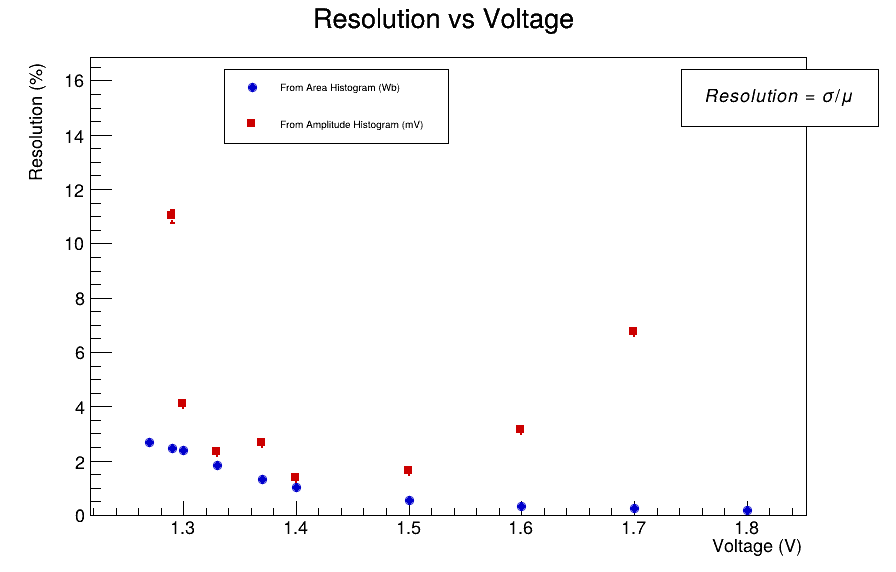
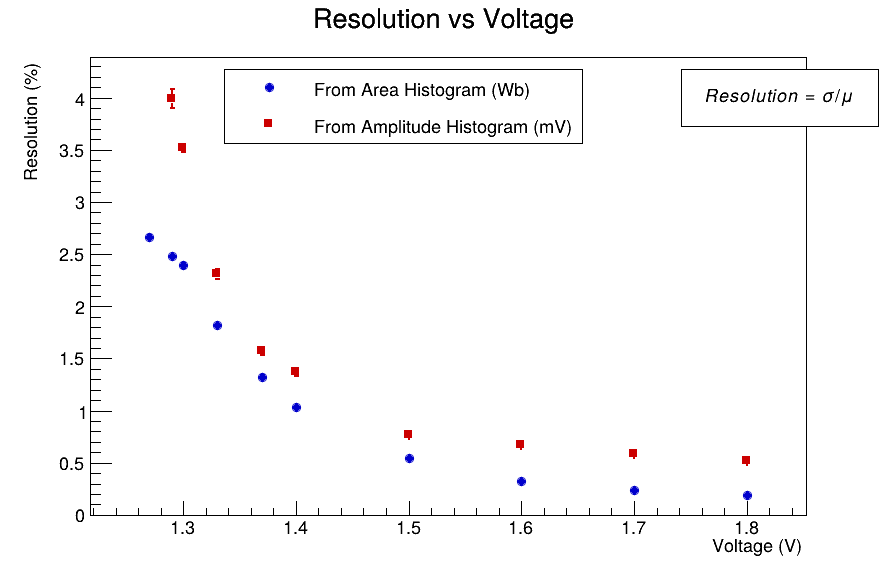
✨Add the option of having a crystall ball fit in comparison

diff --git a/Test_LED_Analysis/plot_resolution_vs_voltage.py b/Test_LED_Analysis/plot_resolution_vs_voltage.py
@@ -75,13 +75,25 @@ def parse_voltage(csv_file):
 # --------------------------------------------------
 # Scan files and compute resolution
 # --------------------------------------------------
-def compute_resolution_points(data_dir, file_prefix, x_unit_label):
+def compute_resolution_points(
+    data_dir,
+    file_prefix,
+    x_unit_label,
+    use_peak_window=False,
+    window_factors=(0.8, 1.2),
+):
     """
-    Reads histograms in data_dir matching f"{file_prefix}_*.csv",
+    Reads histograms in data_dir matching f"{file_prefix}*.csv",
     computes resolution = RMS/Mean (in %), and returns sorted arrays:
     voltages, resolutions_pct, v_errors, res_errors_pct
+
+    If use_peak_window=True:
+      - Find peak bin center (peak_x)
+      - Define window [window_factors[0]*peak_x, window_factors[1]*peak_x]
+      - Compute mean/rms using only bins in that window (weighted by counts)
+      - Estimate errors using simple counting-stat approximations
     """
-    
+
     csv_files = sorted([f for f in os.listdir(data_dir) if f.startswith(file_prefix) and f.endswith(".csv")])
     if not csv_files:
         raise RuntimeError(f"No {file_prefix}*.csv files found in {data_dir}")
@@ -112,34 +124,91 @@ def compute_resolution_points(data_dir, file_prefix, x_unit_label):
             print(f"⚠ Skipping (hist build failed): {csv_file}")
             continue
 
-        mean = h.GetMean()
-        rms  = h.GetRMS()
+        # -----------------------------
+        # Compute mean/rms (full or windowed)
+        # -----------------------------
+        if not use_peak_window:
+            mean = h.GetMean()
+            rms  = h.GetRMS()
 
-        mean_err = h.GetMeanError()
-        rms_err  = h.GetRMSError()
+            mean_err = h.GetMeanError()
+            rms_err  = h.GetRMSError()
+
+            window_info = "full"
+        else:
+            # Peak-based window
+            peak_bin = h.GetMaximumBin()
+            peak_x   = h.GetBinCenter(peak_bin)
+
+            low_edge  = window_factors[0] * peak_x
+            high_edge = window_factors[1] * peak_x
+
+            bin_low  = h.FindBin(low_edge)
+            bin_high = h.FindBin(high_edge)
+
+            # Weighted moments in window
+            sumw = 0.0
+            sumwx = 0.0
+            sumwx2 = 0.0
+
+            for b in range(bin_low, bin_high + 1):
+                w = h.GetBinContent(b)
+                xv = h.GetBinCenter(b)
+                sumw += w
+                sumwx += w * xv
+                sumwx2 += w * xv * xv
+
+            if sumw <= 0:
+                print(f"⚠ Skipping (empty window): {csv_file}")
+                del h
+                continue
+
+            mean = sumwx / sumw
+            var = (sumwx2 / sumw) - mean * mean
+            rms = math.sqrt(var) if var > 0 else 0.0
+
+            # --- Simple error estimates (counting-stat approximations) ---
+            # Treat sumw as N (counts). Then:
+            #   mean_err ~ rms / sqrt(N)
+            #   rms_err  ~ rms / sqrt(2N)
+            # (These are approximations; good enough for comparing trends.)
+            N = sumw
+            mean_err = (rms / math.sqrt(N)) if N > 0 else 0.0
+            rms_err  = (rms / math.sqrt(2.0 * N)) if N > 0 else 0.0
+
+            window_info = f"window [{low_edge:.3g}, {high_edge:.3g}]"
 
         if mean == 0 or math.isnan(mean) or math.isnan(rms):
             print(f"⚠ Skipping (bad mean/rms): {csv_file}  mean={mean} rms={rms}")
+            del h
             continue
 
         res = rms / mean
 
         # Error propagation for res = rms/mean
-        # res_err/res = sqrt( (rms_err/rms)^2 + (mean_err/mean)^2 )
-        if rms > 0:
-            rel = math.sqrt((rms_err / rms) ** 2 + (mean_err / mean) ** 2) if mean != 0 else 0.0
+        if rms > 0 and mean != 0:
+            rel = math.sqrt((rms_err / rms) ** 2 + (mean_err / mean) ** 2)
             res_err = abs(res) * rel
         else:
             res_err = 0.0
 
         voltages.append(v_val)
         resolutions.append(res * 100.0)      # in %
-        v_errors.append(0.0)                 # no voltage uncertainty provided
+        v_errors.append(0.0)                 # no voltage uncertainty
         res_errors.append(res_err * 100.0)   # in %
 
-        print(f"{csv_file:26s} -> V={v_val:.2f}  mean={mean:.3e}  rms={rms:.3e}  res={res*100:.2f}%")
+        print(
+            f"{csv_file:26s} -> V={v_val:.2f}  "
+            f"mean={mean:.3e}  rms={rms:.3e}  res={res*100:.2f}%   ({window_info})"
+        )
 
         del h
+
+    items = sorted(zip(voltages, resolutions, v_errors, res_errors), key=lambda t: t[0])
+    if not items:
+        raise RuntimeError(f"No valid points found for {file_prefix} in {data_dir}")
+    voltages, resolutions, v_errors, res_errors = map(list, zip(*items))
+    return voltages, resolutions, v_errors, res_errors
 
     # Sort by voltage (just in case)
     items = sorted(zip(voltages, resolutions, v_errors, res_errors), key=lambda t: t[0])
@@ -167,13 +236,16 @@ def make_graph(name, title, voltages, resolutions, v_errors, res_errors):
 vA, rA, evA, erA = compute_resolution_points(
     data_dir=AREA_DATA_DIR,
     file_prefix="hist_area_",
-    x_unit_label="Area (Wb)"
+    x_unit_label="Area (Wb)",
+    use_peak_window=False
 )
 
 vP, rP, evP, erP = compute_resolution_points(
     data_dir=AMP_DATA_DIR,
     file_prefix="hist_amplitude_",
-    x_unit_label="Amplitude (mV)"
+    x_unit_label="Amplitude (mV)",
+    use_peak_window=True,
+    window_factors=(0.8, 1.2)
 )
 
 # --------------------------------------------------
@@ -219,11 +291,12 @@ gP.Draw("P SAME")
 # g.Fit(fit, "Q")  # Q = quiet
 
 # Legend
-leg = ROOT.TLegend(0.25, 0.75, 0.50, 0.88)
+leg = ROOT.TLegend(0.25, 0.75, 0.65, 0.88)
 leg.SetBorderSize(1)
 leg.SetFillColor(0)
 leg.AddEntry(gA, "From Area Histogram (Wb)", "p")
 leg.AddEntry(gP, "From Amplitude Histogram (mV)", "p")
+leg.SetTextSize(0.035)
 leg.Draw()
 
 # Add a small info box
